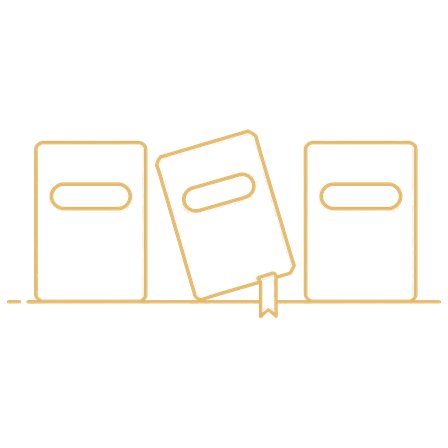
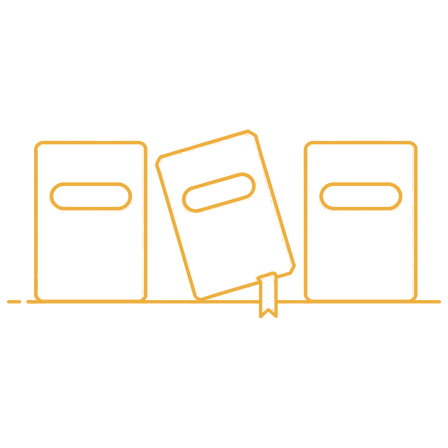
v0.17：重做 UI 颜色（中性石墨底 + 琥珀焦点）——修掉上一版把中性灰全往暖轴偏导致的棕泥感；插画同步重上色

Changed region(s): [[0.0, 0.2812, 1.0, 0.7188]]

diff --git a/index.html b/index.html
@@ -3,7 +3,7 @@
 <head>
 <meta charset="utf-8">
 <meta name="viewport" content="width=device-width, initial-scale=1, viewport-fit=cover">
-<meta name="theme-color" content="#110f0c">
+<meta name="theme-color" content="#0c0d0f">
 <meta name="description" content="人教版高中英语词汇闭环（生词本 · 默写 · 听写 · 错题本）＋ 雅思口语陪练 ＋ 练习场">
 <meta name="mobile-web-app-capable" content="yes">
 <meta name="apple-mobile-web-app-capable" content="yes">
@@ -16,44 +16,44 @@
 <style>
 :root{
   color-scheme: dark;
-  /* 纸：暖石墨。锚定色相 75°（暖黄轴）——不纯黑、不发蓝紫。
-     色相对了，中性灰才会"暖"；暖底才配得上暖强调色。 */
-  --bg:oklch(17% 0.008 75);                 /* 桌面 */
-  --card:oklch(21% 0.009 75);               /* 抬一层：卡片 */
-  --panel:oklch(25% 0.010 75);              /* 再抬一层：输入框、次级面 */
-  --ink:oklch(93% 0.008 75);                /* 暖纸白，不是纯白 */
-  --muted:oklch(70% 0.010 75);
-  --line:oklch(93% 0.008 75 / .11);          /* 发丝描边：由墨色派生，跨三层暗面都成立 */
-  --ink-strong:oklch(96% 0.006 75);          /* 提示条等"反相"面 */
-  /* 强调色：黄铜。全站只当荧光笔用——活动项、聚焦环、下划线、小方块，
-     永不铺满按钮。面积上限约 3%。 */
-  --accent:oklch(80% 0.105 82);
-  /* 主操作填充＝暖纸白 + 近黑字。深色主题下"亮底深字"比"彩色大块"高级得多 */
-  --pri:oklch(93% 0.008 75);
-  --pri-2:oklch(80% 0.105 82);
-  --pri-weak:oklch(80% 0.105 82 / .13);
-  --pri-line:oklch(80% 0.105 82 / .40);
-  --pri-ink:oklch(16% 0.008 75);             /* 暖白底上的字 */
-  --hover:oklch(93% 0.008 75 / .06);
-  --hairline:oklch(93% 0.008 75 / .22);
-  --track:oklch(93% 0.008 75 / .10);
-  --focus-line:oklch(80% 0.105 82 / .65);
-  --skel:oklch(93% 0.008 75 / .09);
-  --chip-bg:oklch(93% 0.008 75 / .06);
-  --ok:oklch(78% 0.110 152); --okbg:oklch(78% 0.110 152 / .13); --ok-line:oklch(78% 0.110 152 / .38);
-  --bad:oklch(70% 0.145 28); --badbg:oklch(70% 0.145 28 / .14); --bad-line:oklch(70% 0.145 28 / .40);
-  --amber:oklch(80% 0.105 82);
-  --shadow-modal:0 24px 70px oklch(8% 0.010 75 / .66);
-  --shadow-drawer:12px 0 40px oklch(8% 0.010 75 / .55);
-  --scrim:oklch(8% 0.010 75 / .68);
-  --appbar:oklch(15% 0.007 75 / .88);
+  /* 纸：中性石墨。基本不带色相（只带一丝冷）。
+     上一版把中性灰全部往暖黄轴偏，结果整页成了棕泥地——底色要中性，重色才能当焦点。 */
+  --bg:oklch(16% 0.004 250);                /* 桌面 */
+  --card:oklch(20% 0.005 250);              /* 抬一层：卡片 */
+  --panel:oklch(24% 0.006 250);             /* 再抬一层：输入框、次级面 */
+  --ink:oklch(94% 0.003 250);               /* 近白，不是纯白 */
+  --muted:oklch(71% 0.006 250);
+  --line:oklch(94% 0.003 250 / .12);         /* 发丝描边：由墨色派生，跨三层暗面都成立 */
+  --ink-strong:oklch(96% 0.003 250);         /* 提示条等反相面 */
+  /* 焦点色：琥珀。全站只当荧光笔用——活动项、聚焦环、下划线、进度条、小方块，
+     永不铺满按钮。面积上限约 5%。 */
+  --accent:oklch(79% 0.145 78);
+  /* 主操作填充＝近白 + 近黑字。深色主题下"亮底深字"比"彩色大块"干净得多 */
+  --pri:oklch(94% 0.003 250);
+  --pri-2:oklch(79% 0.145 78);
+  --pri-weak:oklch(79% 0.145 78 / .14);
+  --pri-line:oklch(79% 0.145 78 / .40);
+  --pri-ink:oklch(17% 0.004 250);            /* 亮底上的字 */
+  --hover:oklch(94% 0.003 250 / .06);
+  --hairline:oklch(94% 0.003 250 / .22);
+  --track:oklch(94% 0.003 250 / .12);
+  --focus-line:oklch(79% 0.145 78 / .65);
+  --skel:oklch(94% 0.003 250 / .09);
+  --chip-bg:oklch(94% 0.003 250 / .06);
+  --ok:oklch(80% 0.130 150); --okbg:oklch(80% 0.130 150 / .13); --ok-line:oklch(80% 0.130 150 / .38);
+  --bad:oklch(71% 0.160 25); --badbg:oklch(71% 0.160 25 / .14); --bad-line:oklch(71% 0.160 25 / .40);
+  --amber:oklch(79% 0.145 78);
+  --shadow-modal:0 24px 70px oklch(8% 0.005 250 / .66);
+  --shadow-drawer:12px 0 40px oklch(8% 0.005 250 / .55);
+  --scrim:oklch(8% 0.005 250 / .68);
+  --appbar:oklch(16% 0.004 250 / .88);
   --radius:14px;
 }
 /* finesse · register=product · A=indigo+slate-tinted · B=type 12-40 · C=card+grid
- * D=CSS-only(no lib) · E=warm-graphite+brass · SOUL=6 SPECTACLE=2 DENSITY=7 */
+ * D=CSS-only(no lib) · E=neutral-graphite+amber · SOUL=6 SPECTACLE=2 DENSITY=7 */
 
 *{box-sizing:border-box}
-::selection{background:oklch(80% 0.105 82 / .30);color:var(--ink)}
+::selection{background:oklch(79% 0.145 78 / .32);color:var(--ink)}
 html,body{margin:0;padding:0}
 body{font-family:"Segoe UI","Microsoft YaHei",system-ui,-apple-system,sans-serif;background:var(--bg);color:var(--ink);font-size:15px;line-height:1.6;-webkit-tap-highlight-color:transparent}
 button{font-family:inherit}
@@ -176,7 +176,7 @@ textarea{resize:vertical;min-height:90px;line-height:1.7}
 .bub.u{background:var(--pri);color:var(--pri-ink);align-self:flex-end;border-bottom-right-radius:8px}
 .bub.u .tw:hover{background:rgba(0,0,0,.14);color:var(--pri-ink)}
 .bub .mini{font-size:12px;opacity:.75;margin-top:4px;display:flex;gap:8px;align-items:center;flex-wrap:wrap}
-.bub.u .mini{color:oklch(16% 0.008 75 / .66)}
+.bub.u .mini{color:oklch(17% 0.004 250 / .66)}
 .empty{color:var(--muted);font-size:13px;text-align:center;padding:18px 6px}
 /* 空状态：图标 + 缺什么/为什么/下一步 + 动作，而不是一行灰字 */
 .emptybox{text-align:center;padding:26px 16px 22px}
@@ -252,7 +252,7 @@ textarea{resize:vertical;min-height:90px;line-height:1.7}
 .appbar{padding-top:calc(9px + env(safe-area-inset-top));padding-left:calc(14px + env(safe-area-inset-left));padding-right:calc(14px + env(safe-area-inset-right))}
 .drawer{padding-top:calc(14px + env(safe-area-inset-top));padding-left:calc(12px + env(safe-area-inset-left))}
 /* 聚焦环用柔和的品牌色环，而不是浏览器默认描边 */
-:root{--ring:0 0 0 3px oklch(80% 0.105 82 / .28)}
+:root{--ring:0 0 0 3px oklch(79% 0.145 78 / .28)}
 button:focus-visible,a:focus-visible,[tabindex]:focus-visible,.chip:focus-visible,.opt:focus-visible{outline:2px solid transparent;box-shadow:var(--ring)}
 @media(max-width:640px){
   /* iOS Safari 对 16px 以下的输入框会在聚焦时自动放大页面 */
@@ -298,7 +298,7 @@ button:focus-visible,a:focus-visible,[tabindex]:focus-visible,.chip:focus-visibl
       <a data-route="data"><span class="icslot" data-ic="sliders"></span>数据与设置</a>
     </nav>
   </div>
-  <div class="footer-note">v0.16 原型 · 数据保存在本机浏览器</div>
+  <div class="footer-note">v0.17 原型 · 数据保存在本机浏览器</div>
 </aside>
 
 <main id="main">
@@ -454,7 +454,7 @@ button:focus-visible,a:focus-visible,[tabindex]:focus-visible,.chip:focus-visibl
   </div>
   <div class="card">
     <b>ℹ 关于本原型</b>
-    <p class="small muted">v0.16 原型：词库已内置人教版（2019）高中英语全 7 册（必修 3 册 + 选择性必修 4 册）共 36 单元 2526 词，含美式音标；词典级音频、双 Agent 服务将在后续阶段接入。手机使用：打开本文件夹里的 index.html，或直接访问在线版 https://ljjjc123.github.io/english-study/ 。</p>
+    <p class="small muted">v0.17 原型：词库已内置人教版（2019）高中英语全 7 册（必修 3 册 + 选择性必修 4 册）共 36 单元 2526 词，含美式音标；词典级音频、双 Agent 服务将在后续阶段接入。手机使用：打开本文件夹里的 index.html，或直接访问在线版 https://ljjjc123.github.io/english-study/ 。</p>
   </div>
 </section>
 
